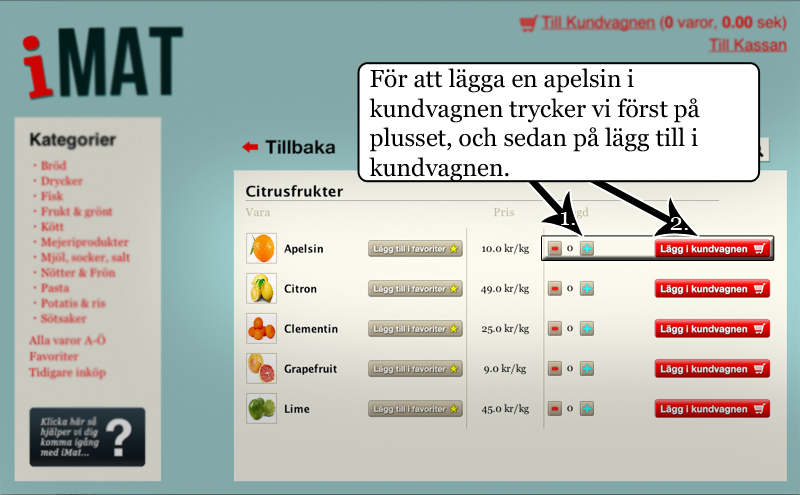
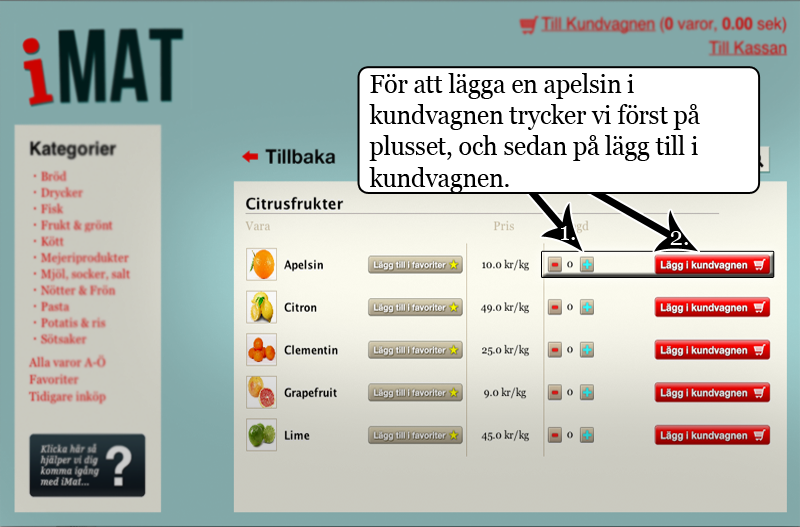
Fixade bilder till helpframe

diff --git a/src/imat/HelpFrame.java b/src/imat/HelpFrame.java
@@ -205,49 +205,48 @@ public class HelpFrame extends javax.swing.JFrame {
         layout.setHorizontalGroup(
             layout.createParallelGroup(javax.swing.GroupLayout.Alignment.LEADING)
             .addGroup(layout.createSequentialGroup()
-                .addContainerGap()
-                .addGroup(layout.createParallelGroup(javax.swing.GroupLayout.Alignment.LEADING)
+                .addGroup(layout.createParallelGroup(javax.swing.GroupLayout.Alignment.LEADING, false)
                     .addGroup(layout.createSequentialGroup()
-                        .addComponent(jButton1, javax.swing.GroupLayout.PREFERRED_SIZE, 115, javax.swing.GroupLayout.PREFERRED_SIZE)
-                        .addPreferredGap(javax.swing.LayoutStyle.ComponentPlacement.RELATED)
-                        .addComponent(jButton2, javax.swing.GroupLayout.PREFERRED_SIZE, 116, javax.swing.GroupLayout.PREFERRED_SIZE)
-                        .addPreferredGap(javax.swing.LayoutStyle.ComponentPlacement.RELATED)
-                        .addComponent(jButton3, javax.swing.GroupLayout.PREFERRED_SIZE, 111, javax.swing.GroupLayout.PREFERRED_SIZE)
-                        .addPreferredGap(javax.swing.LayoutStyle.ComponentPlacement.RELATED)
-                        .addComponent(jButton4, javax.swing.GroupLayout.PREFERRED_SIZE, 115, javax.swing.GroupLayout.PREFERRED_SIZE)
-                        .addPreferredGap(javax.swing.LayoutStyle.ComponentPlacement.RELATED)
-                        .addComponent(jButton5, javax.swing.GroupLayout.PREFERRED_SIZE, 117, javax.swing.GroupLayout.PREFERRED_SIZE)
-                        .addPreferredGap(javax.swing.LayoutStyle.ComponentPlacement.RELATED)
-                        .addComponent(jButton6, javax.swing.GroupLayout.PREFERRED_SIZE, 115, javax.swing.GroupLayout.PREFERRED_SIZE)
-                        .addPreferredGap(javax.swing.LayoutStyle.ComponentPlacement.RELATED)
-                        .addComponent(jButton7, javax.swing.GroupLayout.PREFERRED_SIZE, 118, javax.swing.GroupLayout.PREFERRED_SIZE))
-                    .addComponent(jButton8, javax.swing.GroupLayout.Alignment.TRAILING, javax.swing.GroupLayout.DEFAULT_SIZE, 950, Short.MAX_VALUE)
-                    .addGroup(javax.swing.GroupLayout.Alignment.TRAILING, layout.createSequentialGroup()
                         .addComponent(jButton9, javax.swing.GroupLayout.PREFERRED_SIZE, 198, javax.swing.GroupLayout.PREFERRED_SIZE)
                         .addPreferredGap(javax.swing.LayoutStyle.ComponentPlacement.RELATED)
                         .addComponent(jButton10, javax.swing.GroupLayout.PREFERRED_SIZE, 284, javax.swing.GroupLayout.PREFERRED_SIZE)
-                        .addPreferredGap(javax.swing.LayoutStyle.ComponentPlacement.RELATED, 174, Short.MAX_VALUE)
-                        .addComponent(jButton11, javax.swing.GroupLayout.PREFERRED_SIZE, 288, javax.swing.GroupLayout.PREFERRED_SIZE)))
-                .addContainerGap())
+                        .addPreferredGap(javax.swing.LayoutStyle.ComponentPlacement.RELATED)
+                        .addComponent(jButton11, javax.swing.GroupLayout.PREFERRED_SIZE, 288, javax.swing.GroupLayout.PREFERRED_SIZE))
+                    .addGroup(layout.createSequentialGroup()
+                        .addComponent(jButton1, javax.swing.GroupLayout.PREFERRED_SIZE, 115, javax.swing.GroupLayout.PREFERRED_SIZE)
+                        .addPreferredGap(javax.swing.LayoutStyle.ComponentPlacement.RELATED)
+                        .addComponent(jButton2, javax.swing.GroupLayout.PREFERRED_SIZE, 115, javax.swing.GroupLayout.PREFERRED_SIZE)
+                        .addPreferredGap(javax.swing.LayoutStyle.ComponentPlacement.RELATED)
+                        .addComponent(jButton3, javax.swing.GroupLayout.PREFERRED_SIZE, 115, javax.swing.GroupLayout.PREFERRED_SIZE)
+                        .addPreferredGap(javax.swing.LayoutStyle.ComponentPlacement.RELATED)
+                        .addComponent(jButton4, javax.swing.GroupLayout.PREFERRED_SIZE, 115, javax.swing.GroupLayout.PREFERRED_SIZE)
+                        .addPreferredGap(javax.swing.LayoutStyle.ComponentPlacement.RELATED)
+                        .addComponent(jButton5, javax.swing.GroupLayout.PREFERRED_SIZE, 115, javax.swing.GroupLayout.PREFERRED_SIZE)
+                        .addPreferredGap(javax.swing.LayoutStyle.ComponentPlacement.RELATED)
+                        .addComponent(jButton6, javax.swing.GroupLayout.PREFERRED_SIZE, 115, javax.swing.GroupLayout.PREFERRED_SIZE)
+                        .addPreferredGap(javax.swing.LayoutStyle.ComponentPlacement.RELATED)
+                        .addComponent(jButton7, javax.swing.GroupLayout.PREFERRED_SIZE, 115, javax.swing.GroupLayout.PREFERRED_SIZE))
+                    .addComponent(jButton8, javax.swing.GroupLayout.PREFERRED_SIZE, 800, javax.swing.GroupLayout.PREFERRED_SIZE))
+                .addContainerGap(26, Short.MAX_VALUE))
         );
         layout.setVerticalGroup(
             layout.createParallelGroup(javax.swing.GroupLayout.Alignment.LEADING)
             .addGroup(layout.createSequentialGroup()
                 .addGroup(layout.createParallelGroup(javax.swing.GroupLayout.Alignment.LEADING)
-                    .addComponent(jButton2, javax.swing.GroupLayout.Alignment.TRAILING, 0, 0, Short.MAX_VALUE)
+                    .addComponent(jButton2, javax.swing.GroupLayout.Alignment.TRAILING, javax.swing.GroupLayout.PREFERRED_SIZE, 35, javax.swing.GroupLayout.PREFERRED_SIZE)
                     .addComponent(jButton1, javax.swing.GroupLayout.Alignment.TRAILING, javax.swing.GroupLayout.PREFERRED_SIZE, 35, javax.swing.GroupLayout.PREFERRED_SIZE)
-                    .addComponent(jButton3, 0, 0, Short.MAX_VALUE)
+                    .addComponent(jButton3, javax.swing.GroupLayout.PREFERRED_SIZE, 35, javax.swing.GroupLayout.PREFERRED_SIZE)
                     .addComponent(jButton4, javax.swing.GroupLayout.PREFERRED_SIZE, 35, javax.swing.GroupLayout.PREFERRED_SIZE)
                     .addComponent(jButton5, javax.swing.GroupLayout.PREFERRED_SIZE, 35, javax.swing.GroupLayout.PREFERRED_SIZE)
                     .addComponent(jButton6, javax.swing.GroupLayout.PREFERRED_SIZE, 35, javax.swing.GroupLayout.PREFERRED_SIZE)
                     .addComponent(jButton7, javax.swing.GroupLayout.PREFERRED_SIZE, 35, javax.swing.GroupLayout.PREFERRED_SIZE))
-                .addPreferredGap(javax.swing.LayoutStyle.ComponentPlacement.RELATED)
-                .addComponent(jButton8, javax.swing.GroupLayout.DEFAULT_SIZE, 441, Short.MAX_VALUE)
+                .addGap(1, 1, 1)
+                .addComponent(jButton8, javax.swing.GroupLayout.PREFERRED_SIZE, 527, javax.swing.GroupLayout.PREFERRED_SIZE)
                 .addPreferredGap(javax.swing.LayoutStyle.ComponentPlacement.RELATED)
                 .addGroup(layout.createParallelGroup(javax.swing.GroupLayout.Alignment.LEADING)
                     .addComponent(jButton9, javax.swing.GroupLayout.Alignment.TRAILING, javax.swing.GroupLayout.PREFERRED_SIZE, 63, Short.MAX_VALUE)
-                    .addComponent(jButton11, javax.swing.GroupLayout.Alignment.TRAILING, javax.swing.GroupLayout.PREFERRED_SIZE, 63, Short.MAX_VALUE)
-                    .addComponent(jButton10, 0, 0, Short.MAX_VALUE))
+                    .addComponent(jButton10, 0, 0, Short.MAX_VALUE)
+                    .addComponent(jButton11, javax.swing.GroupLayout.PREFERRED_SIZE, 63, Short.MAX_VALUE))
                 .addContainerGap())
         );
 
